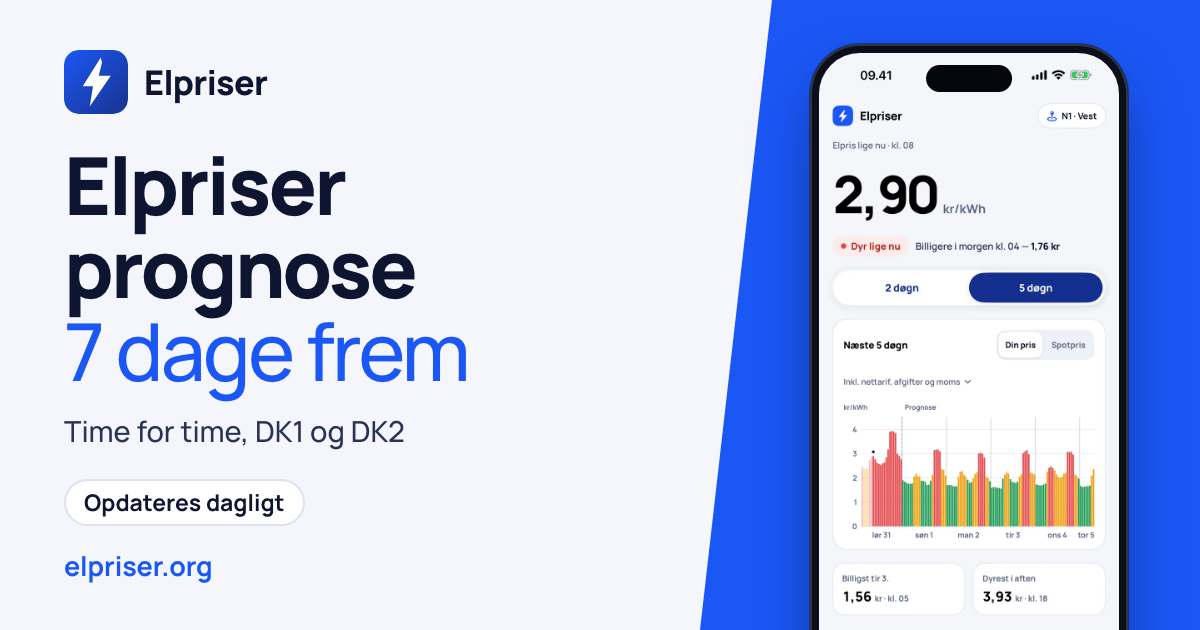
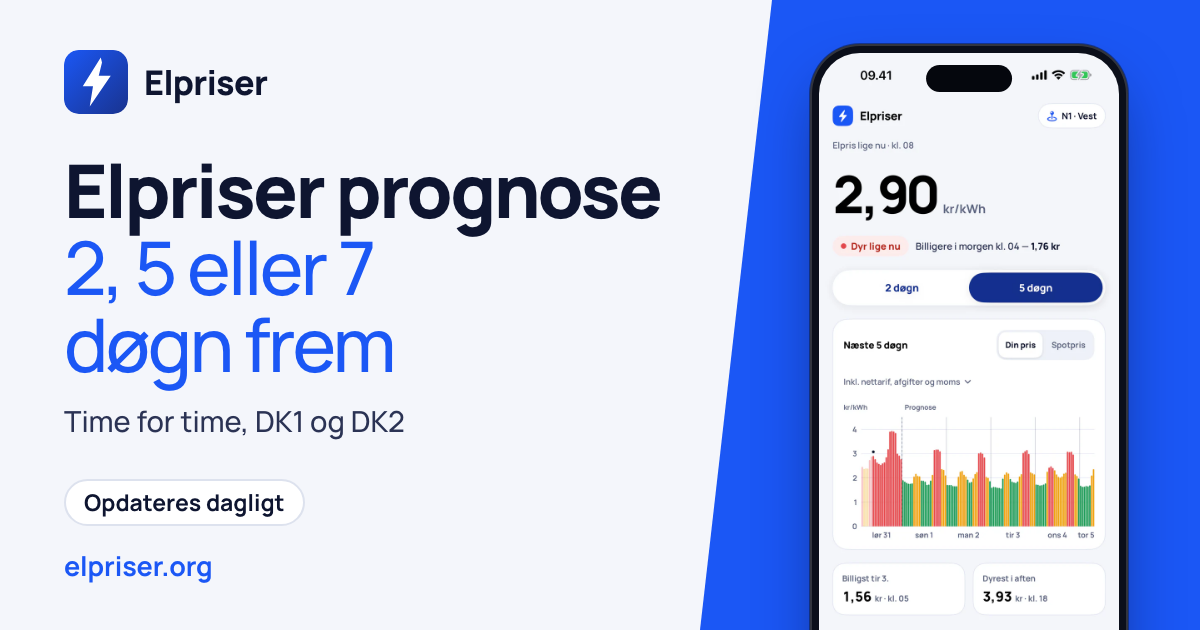
OG card for /prognose: say 2, 5 or 7 døgn (the page's periods) instead of 7 dage next to a 5-day screenshot

Changed region(s): [[0.0308, 0.2413, 0.555, 0.7238]]

diff --git a/functions/_og_manifest.js b/functions/_og_manifest.js
@@ -1,79 +1,79 @@
 // GENERATED by `npm run og` (scripts/make-og-images.mjs, docs/og-images.md): which share image each page has (f = the file under /og, v = a hash of what it is
 // drawn from, alt = its words in the page's language). A page that is not here has the generic /og-image.png. Do not edit by hand.
 export const OG = {
-  "/": {"f":"/og/index.png","v":"c13fd37b","alt":"Elprisen lige nu, time for time. Inkl. Energinets tariffer, elafgift og moms, og med dit netselskab."},
-  "/al/cmimi-i-energjise": {"f":"/og/al/cmimi-i-energjise.png","v":"22735b99","alt":"Çmimi i energjisë në Shqipëri: sot dhe nesër. Çmimet e bursës për 30 vende."},
-  "/api": {"f":"/og/api.png","v":"43848da2","alt":"Gratis API for danske elpriser. JSON uden nøgle, fuld CORS, OpenAPI 3.1."},
-  "/at/strompreis": {"f":"/og/at/strompreis.png","v":"cf9aadc3","alt":"Strompreis in Österreich: heute und morgen. Spotpreise für 30 Länder."},
-  "/automation": {"f":"/og/automation.png","v":"9c401546","alt":"Elpriser til Home Assistant og Shelly. Gratis API og færdig kode: styr varmepumpe, elbil og vandvarmer efter de billigste timer."},
-  "/be/prix-electricite": {"f":"/og/be/prix-electricite.png","v":"3704f1cd","alt":"Prix de l’électricité en Belgique : aujourd’hui et demain. Les prix spot de 30 pays."},
-  "/be/stroomprijs": {"f":"/og/be/stroomprijs.png","v":"b2776a2a","alt":"Stroomprijs in België: vandaag en morgen. Spotprijzen voor 30 landen."},
-  "/bg/download": {"f":"/og/bg/download.png","v":"cb90f691","alt":"Изтеглете приложението Elpriser. Безплатно приложение за iPhone, iPad, Mac и Android."},
-  "/bg/tsena-na-toka": {"f":"/og/bg/tsena-na-toka.png","v":"982b7435","alt":"Цена на тока в България: днес и утре. Спот цени за 30 държави."},
-  "/blog": {"f":"/og/blog.png","v":"871e93ce","alt":"Guides og analyser om elpriser. Hvornår strømmen er billigst og grønnest, og hvad afgifterne gør."},
-  "/blog/elafgift-2028": {"f":"/og/blog/elafgift-2028.png","v":"a82f3a6c","alt":"Elafgift 2028: fra 0,8 til 60+ øre/kWh. Kommer elafgiften tilbage? Ja, fra 2028."},
-  "/blog/elafgift-og-spotpris": {"f":"/og/blog/elafgift-og-spotpris.png","v":"91390e4b","alt":"Elafgift og spotpris: sådan er elprisen ændret siden 2019. Tal for DK1 og DK2."},
-  "/blog/groennest-og-dyrest": {"f":"/og/blog/groennest-og-dyrest.png","v":"5ba22cfa","alt":"Hvorfor er strømmen grønnest netop i den dyreste time? Analyse af 22.504 timers data."},
-  "/blog/hvornaar-er-stroemmen-billigst": {"f":"/og/blog/hvornaar-er-stroemmen-billigst.png","v":"e157034a","alt":"Hvornår er strømmen billigst? Nattestrøm er ikke længere svaret. Analyse af 48.594 timers forbrugs- og prisdata."},
-  "/ch/strompreis": {"f":"/og/ch/strompreis.png","v":"13caab9b","alt":"Strompreis in der Schweiz: heute und morgen. Spotpreise für 30 Länder."},
-  "/cs/download": {"f":"/og/cs/download.png","v":"683c39db","alt":"Stáhněte si aplikaci Elpriser. Aplikace zdarma pro iPhone, iPad, Mac a Android."},
-  "/cz/ceny-elektriny": {"f":"/og/cz/ceny-elektriny.png","v":"308a4a04","alt":"Cena elektřiny v Česku: dnes a zítra. Spotové ceny pro 30 zemí."},
-  "/de/download": {"f":"/og/de/download.png","v":"d82d43d1","alt":"Elpriser-App laden. Kostenlose App für iPhone, iPad, Mac und Android."},
-  "/de/strompreis": {"f":"/og/de/strompreis.png","v":"93aecff9","alt":"Strompreis in Deutschland: heute und morgen. Spotpreise für 30 Länder."},
-  "/dk1": {"f":"/og/dk1.png","v":"9c582907","alt":"Elpris Vest (DK1) i dag, time for time. Spotpris inkl. Energinets tariffer, elafgift og moms."},
-  "/dk2": {"f":"/og/dk2.png","v":"28ceb170","alt":"Elpris Øst (DK2) i dag, time for time. Spotpris inkl. Energinets tariffer, elafgift og moms."},
-  "/download": {"f":"/og/download.png","v":"8ff75852","alt":"Hent Elpriser-appen. Gratis app til iPhone, iPad, Mac og Android."},
-  "/ee/elektri-hind": {"f":"/og/ee/elektri-hind.png","v":"2e64cfc7","alt":"Elektri hind Eestis: täna ja homme. Börsihinnad 30 riigis."},
-  "/el/download": {"f":"/og/el/download.png","v":"e1b5c050","alt":"Κατεβάστε την εφαρμογή Elpriser. Δωρεάν εφαρμογή για iPhone, iPad, Mac και Android."},
-  "/elpriser-i-morgen": {"f":"/og/elpriser-i-morgen.png","v":"a78b8f11","alt":"Elpriser i morgen, time for time. Billigste og dyreste time for DK1 og DK2."},
-  "/en/download": {"f":"/og/en/download.png","v":"f6221319","alt":"Get the Elpriser app. Free app for iPhone, iPad, Mac and Android."},
-  "/es/download": {"f":"/og/es/download.png","v":"6201ecf9","alt":"Descarga la app Elpriser. App gratis para iPhone, iPad, Mac y Android."},
-  "/es/precio-luz": {"f":"/og/es/precio-luz.png","v":"fb225eb4","alt":"Precio de la luz en España: hoy y mañana. Precios spot de 30 países."},
-  "/et/download": {"f":"/og/et/download.png","v":"3b48f10a","alt":"Laadi alla rakendus Elpriser. Tasuta rakendus iPhone'ile, iPadile, Macile ja Androidile."},
-  "/fi/download": {"f":"/og/fi/download.png","v":"ec8bc65f","alt":"Lataa Elpriser-sovellus. Ilmainen sovellus iPhonelle, iPadille, Macille ja Androidille."},
-  "/fi/sahkon-hinta": {"f":"/og/fi/sahkon-hinta.png","v":"c6526bc8","alt":"Sähkön hinta Suomessa: tänään ja ennuste seuraaville 5 vuorokaudelle. Pörssihinnat 30 maassa."},
-  "/fr/download": {"f":"/og/fr/download.png","v":"4fc66a2e","alt":"Obtenez l'app Elpriser. App gratuite pour iPhone, iPad, Mac et Android."},
-  "/fr/prix-electricite": {"f":"/og/fr/prix-electricite.png","v":"eecfce1a","alt":"Prix de l’électricité en France : aujourd’hui et demain. Les prix spot de 30 pays."},
-  "/gb/electricity-price": {"f":"/og/gb/electricity-price.png","v":"7cae2411","alt":"Electricity price in Great Britain: today, within-day market index. Spot prices for 30 countries."},
-  "/gr/timi-revmatos": {"f":"/og/gr/timi-revmatos.png","v":"290a1a25","alt":"Τιμή ρεύματος στην Ελλάδα: σήμερα και αύριο. Τιμές spot για 30 χώρες."},
-  "/hr/cijena-struje": {"f":"/og/hr/cijena-struje.png","v":"1fceaa6b","alt":"Cijena struje u Hrvatskoj: danas i sutra. Burzovne cijene za 30 zemalja."},
-  "/hr/download": {"f":"/og/hr/download.png","v":"c93319ae","alt":"Preuzmite aplikaciju Elpriser. Besplatna aplikacija za iPhone, iPad, Mac i Android."},
-  "/hu/aramar": {"f":"/og/hu/aramar.png","v":"36401709","alt":"Áramár Magyarországon: ma és holnap. Tőzsdei árak 30 országra."},
-  "/hu/download": {"f":"/og/hu/download.png","v":"259fe637","alt":"Töltse le az Elpriser alkalmazást. Ingyenes alkalmazás iPhone-ra, iPadre, Macre és Androidra."},
-  "/ie/electricity-price": {"f":"/og/ie/electricity-price.png","v":"cbba4e5e","alt":"Electricity price in Ireland: today and tomorrow. Spot prices for 30 countries."},
-  "/integrationer": {"f":"/og/integrationer.png","v":"1508f42d","alt":"Integrationer og API-biblioteker. Plugins, klienter i Python og JavaScript og MCP: gratis og uden nøgle, med sand status."},
-  "/it/download": {"f":"/og/it/download.png","v":"87be0e9a","alt":"Scarica l'app Elpriser. App gratuita per iPhone, iPad, Mac e Android."},
-  "/it/prezzo-luce": {"f":"/og/it/prezzo-luce.png","v":"71fcd41a","alt":"Prezzo dell’energia elettrica in Italia del Nord: oggi e domani. Prezzi spot di 30 paesi."},
-  "/lt/download": {"f":"/og/lt/download.png","v":"c86f6c74","alt":"Gaukite Elpriser programėlę. Nemokama programėlė iPhone, iPad, Mac ir Android."},
-  "/lt/elektros-kaina": {"f":"/og/lt/elektros-kaina.png","v":"88f7a055","alt":"Elektros kaina Lietuvoje: šiandien ir rytoj. Biržos kainos 30 šalių."},
-  "/lv/download": {"f":"/og/lv/download.png","v":"4ec78aa6","alt":"Iegūstiet lietotni Elpriser. Bezmaksas lietotne iPhone, iPad, Mac un Android."},
-  "/lv/elektribas-cena": {"f":"/og/lv/elektribas-cena.png","v":"06001760","alt":"Elektrības cena Latvijā: šodien un rīt. Biržas cenas 30 valstīm."},
-  "/me/cijena-struje": {"f":"/og/me/cijena-struje.png","v":"ee9ff8bb","alt":"Cijena struje u Crnoj Gori: danas i sjutra. Berzanske cene za 30 zemalja."},
-  "/mk/cena-na-struja": {"f":"/og/mk/cena-na-struja.png","v":"682a6b56","alt":"Цена на струја во Северна Македонија: денес и утре. Спот цени за 30 држави."},
-  "/mk/download": {"f":"/og/mk/download.png","v":"86363265","alt":"Преземете ја апликацијата Elpriser. Бесплатна апликација за iPhone, iPad, Mac и Android."},
-  "/nb/download": {"f":"/og/nb/download.png","v":"621c41e3","alt":"Last ned Elpriser-appen. Gratis app for iPhone, iPad, Mac og Android."},
-  "/nl/download": {"f":"/og/nl/download.png","v":"49310d88","alt":"Download de Elpriser-app. Gratis app voor iPhone, iPad, Mac en Android."},
-  "/nl/stroomprijs": {"f":"/og/nl/stroomprijs.png","v":"bc2e0906","alt":"Stroomprijs in Nederland: vandaag en prognose voor de komende 5 dagen. Spotprijzen voor 30 landen."},
-  "/no/strompris": {"f":"/og/no/strompris.png","v":"6d1aa808","alt":"Strømpris i Norge: i dag og prognose for de neste 5 døgnene. Spotpriser for 30 land."},
-  "/norden": {"f":"/og/norden.png","v":"5e176115","alt":"Elpriser i Norden, sammenlignet. Norge, Sverige, Finland og Holland i kr/kWh."},
-  "/om-elpriser": {"f":"/og/om-elpriser.png","v":"42c23f22","alt":"Forstå din elpris: spot, tarif og afgifter. Spotpris, nettarif, systemtarif, elafgift og moms."},
-  "/pl/ceny-pradu": {"f":"/og/pl/ceny-pradu.png","v":"bf8dda32","alt":"Cena prądu w Polsce: dziś i jutro. Ceny giełdowe w 30 krajach."},
-  "/pl/download": {"f":"/og/pl/download.png","v":"35df7f74","alt":"Pobierz aplikację Elpriser. Darmowa aplikacja na iPhone'a, iPada, Maca i Androida."},
-  "/prognose": {"f":"/og/prognose.png","v":"a81e311b","alt":"Elpriser prognose 7 dage frem. Time for time, DK1 og DK2."},
-  "/pt/download": {"f":"/og/pt/download.png","v":"925def1b","alt":"Obtenha a app Elpriser. App grátis para iPhone, iPad, Mac e Android."},
-  "/pt/preco-eletricidade": {"f":"/og/pt/preco-eletricidade.png","v":"3bfd4636","alt":"Preço da eletricidade em Portugal: hoje e amanhã. Preços spot de 30 países."},
-  "/ro/download": {"f":"/og/ro/download.png","v":"50edf627","alt":"Descarcă aplicația Elpriser. Aplicație gratuită pentru iPhone, iPad, Mac și Android."},
-  "/ro/pretul-energiei": {"f":"/og/ro/pretul-energiei.png","v":"ba79df8c","alt":"Prețul energiei în România: azi și mâine. Prețuri spot pentru 30 de țări."},
-  "/rs/cena-struje": {"f":"/og/rs/cena-struje.png","v":"a01d6dbe","alt":"Cena struje u Srbiji: danas i sutra. Berzanske cene za 30 zemalja."},
-  "/shelly-tariff": {"f":"/og/shelly-tariff.png","v":"8a86bb10","alt":"Shelly Live Tariff med danske elpriser. Tibber-kompatibel JSON, time for time inkl. nettarif, elafgift og moms."},
-  "/si/cena-elektrike": {"f":"/og/si/cena-elektrike.png","v":"6a1694ee","alt":"Cena elektrike v Sloveniji: danes in jutri. Borzne cene za 30 držav."},
-  "/sk/ceny-elektriny": {"f":"/og/sk/ceny-elektriny.png","v":"f5e0d5b3","alt":"Cena elektriny na Slovensku: dnes a zajtra. Spotové ceny pre 30 krajín."},
-  "/sk/download": {"f":"/og/sk/download.png","v":"8dfcd09e","alt":"Stiahnite si aplikáciu Elpriser. Bezplatná aplikácia pre iPhone, iPad, Mac a Android."},
-  "/sl/download": {"f":"/og/sl/download.png","v":"6481da4b","alt":"Namestite aplikacijo Elpriser. Brezplačna aplikacija za iPhone, iPad, Mac in Android."},
-  "/sq/download": {"f":"/og/sq/download.png","v":"e4edede9","alt":"Merrni aplikacionin Elpriser. Aplikacion falas për iPhone, iPad, Mac dhe Android."},
-  "/sr/download": {"f":"/og/sr/download.png","v":"85261f0c","alt":"Preuzmite aplikaciju Elpriser. Besplatna aplikacija za iPhone, iPad, Mac i Android."},
-  "/sv/download": {"f":"/og/sv/download.png","v":"9f92e49b","alt":"Hämta Elpriser-appen. Gratis app för iPhone, iPad, Mac och Android."},
-  "/sv/elpris": {"f":"/og/sv/elpris.png","v":"7d4eb9dc","alt":"Elpris i Sverige: idag och prognos för de närmaste 5 dygnen. Spotpriser för 30 länder."},
-  "/tariffer": {"f":"/og/tariffer.png","v":"347317be","alt":"Nettariffer 2026 for alle netselskaber. Nettarif C pr. kWh: lav-, høj- og spidslast."},
-  "/xk/cmimi-i-rrymes": {"f":"/og/xk/cmimi-i-rrymes.png","v":"f018fcad","alt":"Çmimi i rrymës në Kosovë: sot dhe nesër. Çmimet e bursës për 30 vende."},
+  "/": {"f":"/og/index.png","v":"c1e4e220","alt":"Elprisen lige nu, time for time. Inkl. Energinets tariffer, elafgift og moms, og med dit netselskab."},
+  "/al/cmimi-i-energjise": {"f":"/og/al/cmimi-i-energjise.png","v":"3f685925","alt":"Çmimi i energjisë në Shqipëri: sot dhe nesër. Çmimet e bursës për 30 vende."},
+  "/api": {"f":"/og/api.png","v":"f4aa77a7","alt":"Gratis API for danske elpriser. JSON uden nøgle, fuld CORS, OpenAPI 3.1."},
+  "/at/strompreis": {"f":"/og/at/strompreis.png","v":"ba1394f1","alt":"Strompreis in Österreich: heute und morgen. Spotpreise für 30 Länder."},
+  "/automation": {"f":"/og/automation.png","v":"54067ee6","alt":"Elpriser til Home Assistant og Shelly. Gratis API og færdig kode: styr varmepumpe, elbil og vandvarmer efter de billigste timer."},
+  "/be/prix-electricite": {"f":"/og/be/prix-electricite.png","v":"83c86980","alt":"Prix de l’électricité en Belgique : aujourd’hui et demain. Les prix spot de 30 pays."},
+  "/be/stroomprijs": {"f":"/og/be/stroomprijs.png","v":"80903a4e","alt":"Stroomprijs in België: vandaag en morgen. Spotprijzen voor 30 landen."},
+  "/bg/download": {"f":"/og/bg/download.png","v":"56ce085d","alt":"Изтеглете приложението Elpriser. Безплатно приложение за iPhone, iPad, Mac и Android."},
+  "/bg/tsena-na-toka": {"f":"/og/bg/tsena-na-toka.png","v":"8ff7e1d9","alt":"Цена на тока в България: днес и утре. Спот цени за 30 държави."},
+  "/blog": {"f":"/og/blog.png","v":"bad92178","alt":"Guides og analyser om elpriser. Hvornår strømmen er billigst og grønnest, og hvad afgifterne gør."},
+  "/blog/elafgift-2028": {"f":"/og/blog/elafgift-2028.png","v":"29ef0868","alt":"Elafgift 2028: fra 0,8 til 60+ øre/kWh. Kommer elafgiften tilbage? Ja, fra 2028."},
+  "/blog/elafgift-og-spotpris": {"f":"/og/blog/elafgift-og-spotpris.png","v":"7f55a007","alt":"Elafgift og spotpris: sådan er elprisen ændret siden 2019. Tal for DK1 og DK2."},
+  "/blog/groennest-og-dyrest": {"f":"/og/blog/groennest-og-dyrest.png","v":"756d7da0","alt":"Hvorfor er strømmen grønnest netop i den dyreste time? Analyse af 22.504 timers data."},
+  "/blog/hvornaar-er-stroemmen-billigst": {"f":"/og/blog/hvornaar-er-stroemmen-billigst.png","v":"7531ee99","alt":"Hvornår er strømmen billigst? Nattestrøm er ikke længere svaret. Analyse af 48.594 timers forbrugs- og prisdata."},
+  "/ch/strompreis": {"f":"/og/ch/strompreis.png","v":"c6c64bac","alt":"Strompreis in der Schweiz: heute und morgen. Spotpreise für 30 Länder."},
+  "/cs/download": {"f":"/og/cs/download.png","v":"b8bbab94","alt":"Stáhněte si aplikaci Elpriser. Aplikace zdarma pro iPhone, iPad, Mac a Android."},
+  "/cz/ceny-elektriny": {"f":"/og/cz/ceny-elektriny.png","v":"ad7c9a07","alt":"Cena elektřiny v Česku: dnes a zítra. Spotové ceny pro 30 zemí."},
+  "/de/download": {"f":"/og/de/download.png","v":"134aafdf","alt":"Elpriser-App laden. Kostenlose App für iPhone, iPad, Mac und Android."},
+  "/de/strompreis": {"f":"/og/de/strompreis.png","v":"ff3af61c","alt":"Strompreis in Deutschland: heute und morgen. Spotpreise für 30 Länder."},
+  "/dk1": {"f":"/og/dk1.png","v":"e58904e3","alt":"Elpris Vest (DK1) i dag, time for time. Spotpris inkl. Energinets tariffer, elafgift og moms."},
+  "/dk2": {"f":"/og/dk2.png","v":"86b0898e","alt":"Elpris Øst (DK2) i dag, time for time. Spotpris inkl. Energinets tariffer, elafgift og moms."},
+  "/download": {"f":"/og/download.png","v":"908f5b8d","alt":"Hent Elpriser-appen. Gratis app til iPhone, iPad, Mac og Android."},
+  "/ee/elektri-hind": {"f":"/og/ee/elektri-hind.png","v":"50419927","alt":"Elektri hind Eestis: täna ja homme. Börsihinnad 30 riigis."},
+  "/el/download": {"f":"/og/el/download.png","v":"9096caf2","alt":"Κατεβάστε την εφαρμογή Elpriser. Δωρεάν εφαρμογή για iPhone, iPad, Mac και Android."},
+  "/elpriser-i-morgen": {"f":"/og/elpriser-i-morgen.png","v":"18ded30f","alt":"Elpriser i morgen, time for time. Billigste og dyreste time for DK1 og DK2."},
+  "/en/download": {"f":"/og/en/download.png","v":"aaac2e68","alt":"Get the Elpriser app. Free app for iPhone, iPad, Mac and Android."},
+  "/es/download": {"f":"/og/es/download.png","v":"337f6fde","alt":"Descarga la app Elpriser. App gratis para iPhone, iPad, Mac y Android."},
+  "/es/precio-luz": {"f":"/og/es/precio-luz.png","v":"e31fec74","alt":"Precio de la luz en España: hoy y mañana. Precios spot de 30 países."},
+  "/et/download": {"f":"/og/et/download.png","v":"1656f7d4","alt":"Laadi alla rakendus Elpriser. Tasuta rakendus iPhone'ile, iPadile, Macile ja Androidile."},
+  "/fi/download": {"f":"/og/fi/download.png","v":"ac8751e3","alt":"Lataa Elpriser-sovellus. Ilmainen sovellus iPhonelle, iPadille, Macille ja Androidille."},
+  "/fi/sahkon-hinta": {"f":"/og/fi/sahkon-hinta.png","v":"e7d11adb","alt":"Sähkön hinta Suomessa: tänään ja ennuste seuraaville 5 vuorokaudelle. Pörssihinnat 30 maassa."},
+  "/fr/download": {"f":"/og/fr/download.png","v":"ddcfe1de","alt":"Obtenez l'app Elpriser. App gratuite pour iPhone, iPad, Mac et Android."},
+  "/fr/prix-electricite": {"f":"/og/fr/prix-electricite.png","v":"19cf6e43","alt":"Prix de l’électricité en France : aujourd’hui et demain. Les prix spot de 30 pays."},
+  "/gb/electricity-price": {"f":"/og/gb/electricity-price.png","v":"c6313f2d","alt":"Electricity price in Great Britain: today, within-day market index. Spot prices for 30 countries."},
+  "/gr/timi-revmatos": {"f":"/og/gr/timi-revmatos.png","v":"7e62ff35","alt":"Τιμή ρεύματος στην Ελλάδα: σήμερα και αύριο. Τιμές spot για 30 χώρες."},
+  "/hr/cijena-struje": {"f":"/og/hr/cijena-struje.png","v":"21c61277","alt":"Cijena struje u Hrvatskoj: danas i sutra. Burzovne cijene za 30 zemalja."},
+  "/hr/download": {"f":"/og/hr/download.png","v":"ecd19d36","alt":"Preuzmite aplikaciju Elpriser. Besplatna aplikacija za iPhone, iPad, Mac i Android."},
+  "/hu/aramar": {"f":"/og/hu/aramar.png","v":"b2753d62","alt":"Áramár Magyarországon: ma és holnap. Tőzsdei árak 30 országra."},
+  "/hu/download": {"f":"/og/hu/download.png","v":"a3676044","alt":"Töltse le az Elpriser alkalmazást. Ingyenes alkalmazás iPhone-ra, iPadre, Macre és Androidra."},
+  "/ie/electricity-price": {"f":"/og/ie/electricity-price.png","v":"2eb5ecd1","alt":"Electricity price in Ireland: today and tomorrow. Spot prices for 30 countries."},
+  "/integrationer": {"f":"/og/integrationer.png","v":"37175207","alt":"Integrationer og API-biblioteker. Plugins, klienter i Python og JavaScript og MCP: gratis og uden nøgle, med sand status."},
+  "/it/download": {"f":"/og/it/download.png","v":"5c38d907","alt":"Scarica l'app Elpriser. App gratuita per iPhone, iPad, Mac e Android."},
+  "/it/prezzo-luce": {"f":"/og/it/prezzo-luce.png","v":"95755986","alt":"Prezzo dell’energia elettrica in Italia del Nord: oggi e domani. Prezzi spot di 30 paesi."},
+  "/lt/download": {"f":"/og/lt/download.png","v":"2e50eecc","alt":"Gaukite Elpriser programėlę. Nemokama programėlė iPhone, iPad, Mac ir Android."},
+  "/lt/elektros-kaina": {"f":"/og/lt/elektros-kaina.png","v":"9e58eb09","alt":"Elektros kaina Lietuvoje: šiandien ir rytoj. Biržos kainos 30 šalių."},
+  "/lv/download": {"f":"/og/lv/download.png","v":"3ade0f82","alt":"Iegūstiet lietotni Elpriser. Bezmaksas lietotne iPhone, iPad, Mac un Android."},
+  "/lv/elektribas-cena": {"f":"/og/lv/elektribas-cena.png","v":"e14c3076","alt":"Elektrības cena Latvijā: šodien un rīt. Biržas cenas 30 valstīm."},
+  "/me/cijena-struje": {"f":"/og/me/cijena-struje.png","v":"657cec0a","alt":"Cijena struje u Crnoj Gori: danas i sjutra. Berzanske cene za 30 zemalja."},
+  "/mk/cena-na-struja": {"f":"/og/mk/cena-na-struja.png","v":"4e27fdfc","alt":"Цена на струја во Северна Македонија: денес и утре. Спот цени за 30 држави."},
+  "/mk/download": {"f":"/og/mk/download.png","v":"eb453a53","alt":"Преземете ја апликацијата Elpriser. Бесплатна апликација за iPhone, iPad, Mac и Android."},
+  "/nb/download": {"f":"/og/nb/download.png","v":"a2514c09","alt":"Last ned Elpriser-appen. Gratis app for iPhone, iPad, Mac og Android."},
+  "/nl/download": {"f":"/og/nl/download.png","v":"df03a3d4","alt":"Download de Elpriser-app. Gratis app voor iPhone, iPad, Mac en Android."},
+  "/nl/stroomprijs": {"f":"/og/nl/stroomprijs.png","v":"a61fd1c3","alt":"Stroomprijs in Nederland: vandaag en prognose voor de komende 5 dagen. Spotprijzen voor 30 landen."},
+  "/no/strompris": {"f":"/og/no/strompris.png","v":"b142e422","alt":"Strømpris i Norge: i dag og prognose for de neste 5 døgnene. Spotpriser for 30 land."},
+  "/norden": {"f":"/og/norden.png","v":"635adc12","alt":"Elpriser i Norden, sammenlignet. Norge, Sverige, Finland og Holland i kr/kWh."},
+  "/om-elpriser": {"f":"/og/om-elpriser.png","v":"41738d86","alt":"Forstå din elpris: spot, tarif og afgifter. Spotpris, nettarif, systemtarif, elafgift og moms."},
+  "/pl/ceny-pradu": {"f":"/og/pl/ceny-pradu.png","v":"c2665ee6","alt":"Cena prądu w Polsce: dziś i jutro. Ceny giełdowe w 30 krajach."},
+  "/pl/download": {"f":"/og/pl/download.png","v":"78103a04","alt":"Pobierz aplikację Elpriser. Darmowa aplikacja na iPhone'a, iPada, Maca i Androida."},
+  "/prognose": {"f":"/og/prognose.png","v":"70533d63","alt":"Elpriser prognose 2, 5 eller 7 døgn frem. Time for time, DK1 og DK2."},
+  "/pt/download": {"f":"/og/pt/download.png","v":"ee822ab9","alt":"Obtenha a app Elpriser. App grátis para iPhone, iPad, Mac e Android."},
+  "/pt/preco-eletricidade": {"f":"/og/pt/preco-eletricidade.png","v":"7b81e8ce","alt":"Preço da eletricidade em Portugal: hoje e amanhã. Preços spot de 30 países."},
+  "/ro/download": {"f":"/og/ro/download.png","v":"a4f4ef28","alt":"Descarcă aplicația Elpriser. Aplicație gratuită pentru iPhone, iPad, Mac și Android."},
+  "/ro/pretul-energiei": {"f":"/og/ro/pretul-energiei.png","v":"87bcfa4e","alt":"Prețul energiei în România: azi și mâine. Prețuri spot pentru 30 de țări."},
+  "/rs/cena-struje": {"f":"/og/rs/cena-struje.png","v":"bae1e0b8","alt":"Cena struje u Srbiji: danas i sutra. Berzanske cene za 30 zemalja."},
+  "/shelly-tariff": {"f":"/og/shelly-tariff.png","v":"d32d7e6c","alt":"Shelly Live Tariff med danske elpriser. Tibber-kompatibel JSON, time for time inkl. nettarif, elafgift og moms."},
+  "/si/cena-elektrike": {"f":"/og/si/cena-elektrike.png","v":"146ac2b9","alt":"Cena elektrike v Sloveniji: danes in jutri. Borzne cene za 30 držav."},
+  "/sk/ceny-elektriny": {"f":"/og/sk/ceny-elektriny.png","v":"624efd75","alt":"Cena elektriny na Slovensku: dnes a zajtra. Spotové ceny pre 30 krajín."},
+  "/sk/download": {"f":"/og/sk/download.png","v":"2405044f","alt":"Stiahnite si aplikáciu Elpriser. Bezplatná aplikácia pre iPhone, iPad, Mac a Android."},
+  "/sl/download": {"f":"/og/sl/download.png","v":"4fb3d78d","alt":"Namestite aplikacijo Elpriser. Brezplačna aplikacija za iPhone, iPad, Mac in Android."},
+  "/sq/download": {"f":"/og/sq/download.png","v":"9d955d4f","alt":"Merrni aplikacionin Elpriser. Aplikacion falas për iPhone, iPad, Mac dhe Android."},
+  "/sr/download": {"f":"/og/sr/download.png","v":"96fe3544","alt":"Preuzmite aplikaciju Elpriser. Besplatna aplikacija za iPhone, iPad, Mac i Android."},
+  "/sv/download": {"f":"/og/sv/download.png","v":"73fe9217","alt":"Hämta Elpriser-appen. Gratis app för iPhone, iPad, Mac och Android."},
+  "/sv/elpris": {"f":"/og/sv/elpris.png","v":"8c8dabbb","alt":"Elpris i Sverige: idag och prognos för de närmaste 5 dygnen. Spotpriser för 30 länder."},
+  "/tariffer": {"f":"/og/tariffer.png","v":"01b1f19a","alt":"Nettariffer 2026 for alle netselskaber. Nettarif C pr. kWh: lav-, høj- og spidslast."},
+  "/xk/cmimi-i-rrymes": {"f":"/og/xk/cmimi-i-rrymes.png","v":"b6c533ba","alt":"Çmimi i rrymës në Kosovë: sot dhe nesër. Çmimet e bursës për 30 vende."},
 };
